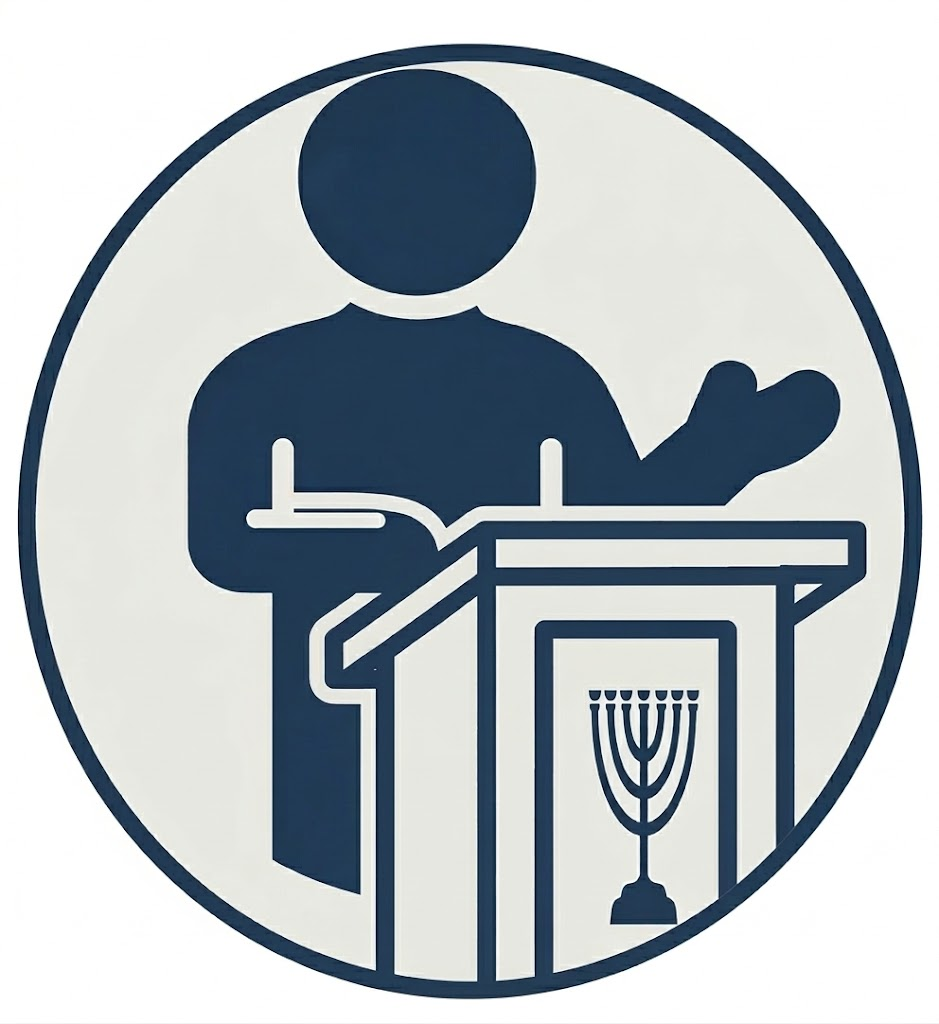
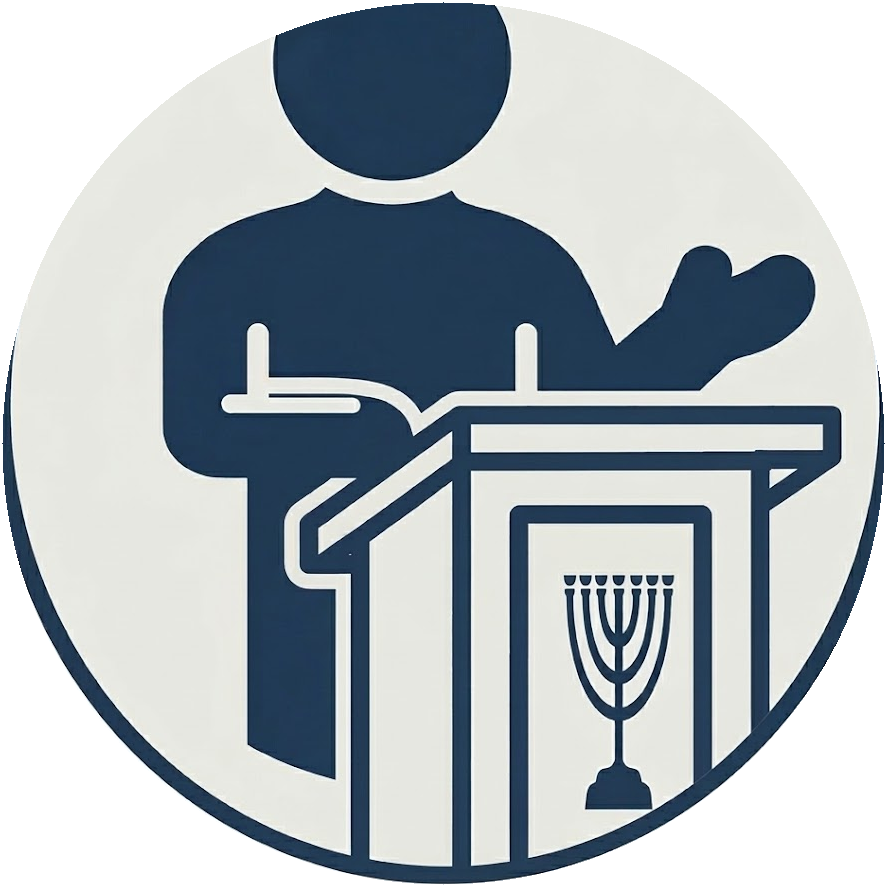
fix: find branch container correctly for fork SVG lines

diff --git a/index.html b/index.html
@@ -2901,7 +2901,7 @@ const BUILTIN_ICONS = {
   "scales": `<svg xmlns="http://www.w3.org/2000/svg" viewBox="0 0 100 100" width="28" height="28"><line x1="50" y1="15" x2="50" y2="80" stroke="#B8860B" stroke-width="3"/><line x1="15" y1="35" x2="85" y2="35" stroke="#B8860B" stroke-width="3"/><circle cx="50" cy="15" r="5" fill="#FFD700" stroke="#B8860B" stroke-width="2"/><path d="M10,55 Q15,35 20,55 Z" fill="#FFD700" stroke="#B8860B" stroke-width="1.5"/><line x1="15" y1="35" x2="10" y2="55" stroke="#B8860B" stroke-width="1.5"/><line x1="15" y1="35" x2="20" y2="55" stroke="#B8860B" stroke-width="1.5"/><path d="M80,50 Q85,30 90,50 Z" fill="#FFD700" stroke="#B8860B" stroke-width="1.5"/><line x1="85" y1="35" x2="80" y2="50" stroke="#B8860B" stroke-width="1.5"/><line x1="85" y1="35" x2="90" y2="50" stroke="#B8860B" stroke-width="1.5"/><rect x="38" y="78" width="24" height="8" rx="3" fill="#B8860B"/></svg>`,
   "usurp": `<img src="icons/usurp.png" width="34" height="34" style="object-fit:contain">`,
   "pen": `<img src="icons/pen.png" style="width:48px;height:48px;vertical-align:middle;">`,
-  "podium": `<img src="icons/podium.png?v=2" width="48" height="48" style="object-fit:contain">`,
+  "podium": `<img src="icons/podium.png?v=3" width="48" height="48" style="object-fit:contain">`,
   "committee": `<img src="icons/committee.png?v=6" width="48" height="48" style="object-fit:contain">`,
   "committee-old": `<img src="icons/committee-old.png" width="48" height="48" style="object-fit:contain">`,
   "vote": `<img src="icons/vote.png?v=1" width="48" height="48" style="object-fit:contain">`,
@@ -4189,7 +4189,12 @@ function deduplicateSteps(){
 function renderForkLines(){
   document.querySelectorAll('svg.flow-fork-svg').forEach(svg => {
     const splitId = svg.dataset.splitId;
-    const container = svg.nextElementSibling; // flow-branch-container
+    // SVG is inside a wrapper div; branch-container is after the wrapper (or after edit buttons)
+    let container = svg.closest('.flow-step, div')?.parentElement;
+    // Find the flow-branch-container that follows
+    const wrapper = svg.parentElement;
+    container = wrapper;
+    while(container && !container.classList.contains('flow-branch-container')) container = container.nextElementSibling;
     if(!container) return;
     const branches = container.querySelectorAll(':scope > .flow-branch');
     if(branches.length < 2) return;
